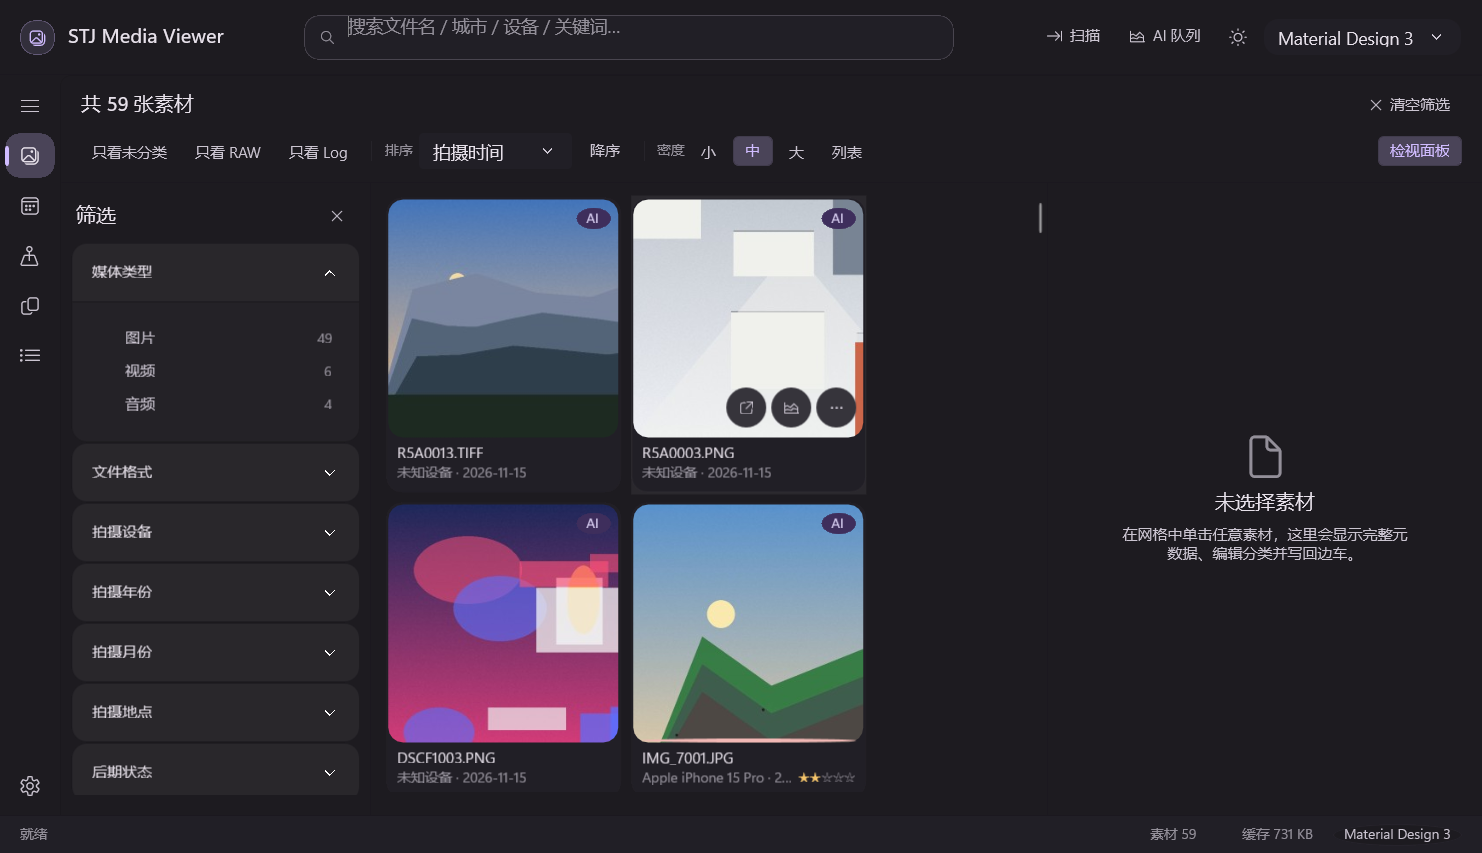
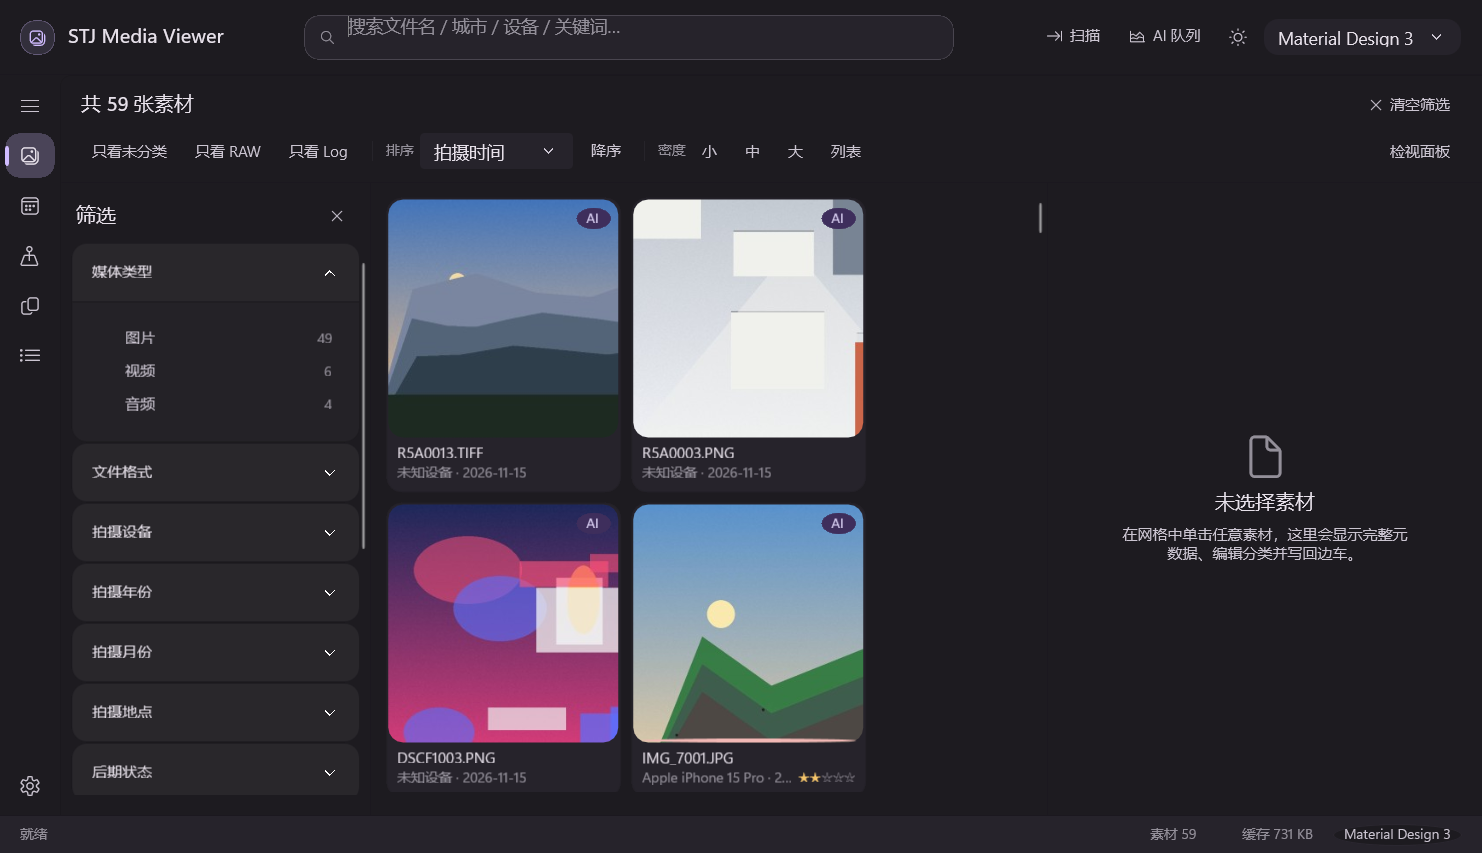
design: widen MD3 surface-container hierarchy; refresh md3 screenshots

diff --git a/src/StjMediaViewer.App/Views/LibraryPage.xaml b/src/StjMediaViewer.App/Views/LibraryPage.xaml
@@ -154,10 +154,10 @@
             <ItemsStackPanel Orientation="Vertical" />
         </ItemsPanelTemplate>
 
-        <!-- ================= 网格卡片 ================= -->
+        <!-- ================= 网格卡片（主内容单元 → container-high，浮起） ================= -->
         <DataTemplate x:Key="CardTemplate" x:DataType="vm:AssetCardItem">
             <Grid Margin="4" ToolTipService.ToolTip="{x:Bind TooltipText, Mode=OneWay}">
-                <Border Background="{ThemeResource AppSurfaceAltBrush}"
+                <Border Background="{ThemeResource AppSurfaceRaisedBrush}"
                         BorderBrush="{ThemeResource AppCardStrokeBrush}"
                         BorderThickness="{ThemeResource AppCardStrokeThickness}"
                         CornerRadius="{ThemeResource AppRadiusMedium}">

diff --git a/docs/THEME-TOKENS.md b/docs/THEME-TOKENS.md
@@ -111,9 +111,9 @@ Fluent / MD3 下第 2~5 层全部透明，第 0 层不挂 → 自动退化成普
 
 | 键 | 语义 | Fluent 深 / 浅 | MD3 深 / 浅 | Glass 深 / 浅 |
 |---|---|---|---|---|
-| `AppWindowBackgroundBrush` | 窗口底层（可铺在系统背板上） | `#CC1A1A1C` / `#CCF3F3F3` | `#FF0F0D13` / `#FFF2ECF4` | `渐变(线性)` / `渐变(线性)` |
-| `AppSurfaceBrush` | 主表面（导航区/顶栏/面板） | `#FF202024` / `#FFFFFFFF` | `#FF1D1B20` / `#FFFEF7FF` | `#8C10141E` / `#B3FFFFFF` |
-| `AppSurfaceAltBrush` | 次级表面（输入框/状态栏） | `#FF27272C` / `#FFF7F7F9` | `#FF211F26` / `#FFF3EDF7` | `#66121825` / `#8CFFFFFF` |
+| `AppWindowBackgroundBrush` | 窗口底层（可铺在系统背板上） | `#CC1A1A1C` / `#CCF3F3F3` | `#FF0F0D13` / `#FFEDE8F0` | `渐变(线性)` / `渐变(线性)` |
+| `AppSurfaceBrush` | 主表面（导航区/顶栏/面板） | `#FF202024` / `#FFFFFFFF` | `#FF1D1B20` / `#FFF7F2FA` | `#8C10141E` / `#B3FFFFFF` |
+| `AppSurfaceAltBrush` | 次级表面（输入框/状态栏/列表行） | `#FF27272C` / `#FFF7F7F9` | `#FF26232B` / `#FFECE6F0` | `#66121825` / `#8CFFFFFF` |
 | `AppSurfaceRaisedBrush` | 卡片/浮起层 | `#FF2D2D33` / `#FFFFFFFF` | `#FF2B2930` / `#FFFFFFFF` | `#A61E2230` / `#CCFFFFFF` |
 | `AppSurfaceOverlayBrush` | 弹出层（菜单/Flyout/Dialog） | `#F22A2A30` / `#F7FFFFFF` | `#FF36343B` / `#FFE6E0E9` | `#E61C202D` / `#F2FFFFFF` |
 | `AppDividerBrush` | 分隔线 | `#14FFFFFF` / `#14000000` | `#3349454F` / `#2679747E` | `#14FFFFFF` / `#1F000000` |
